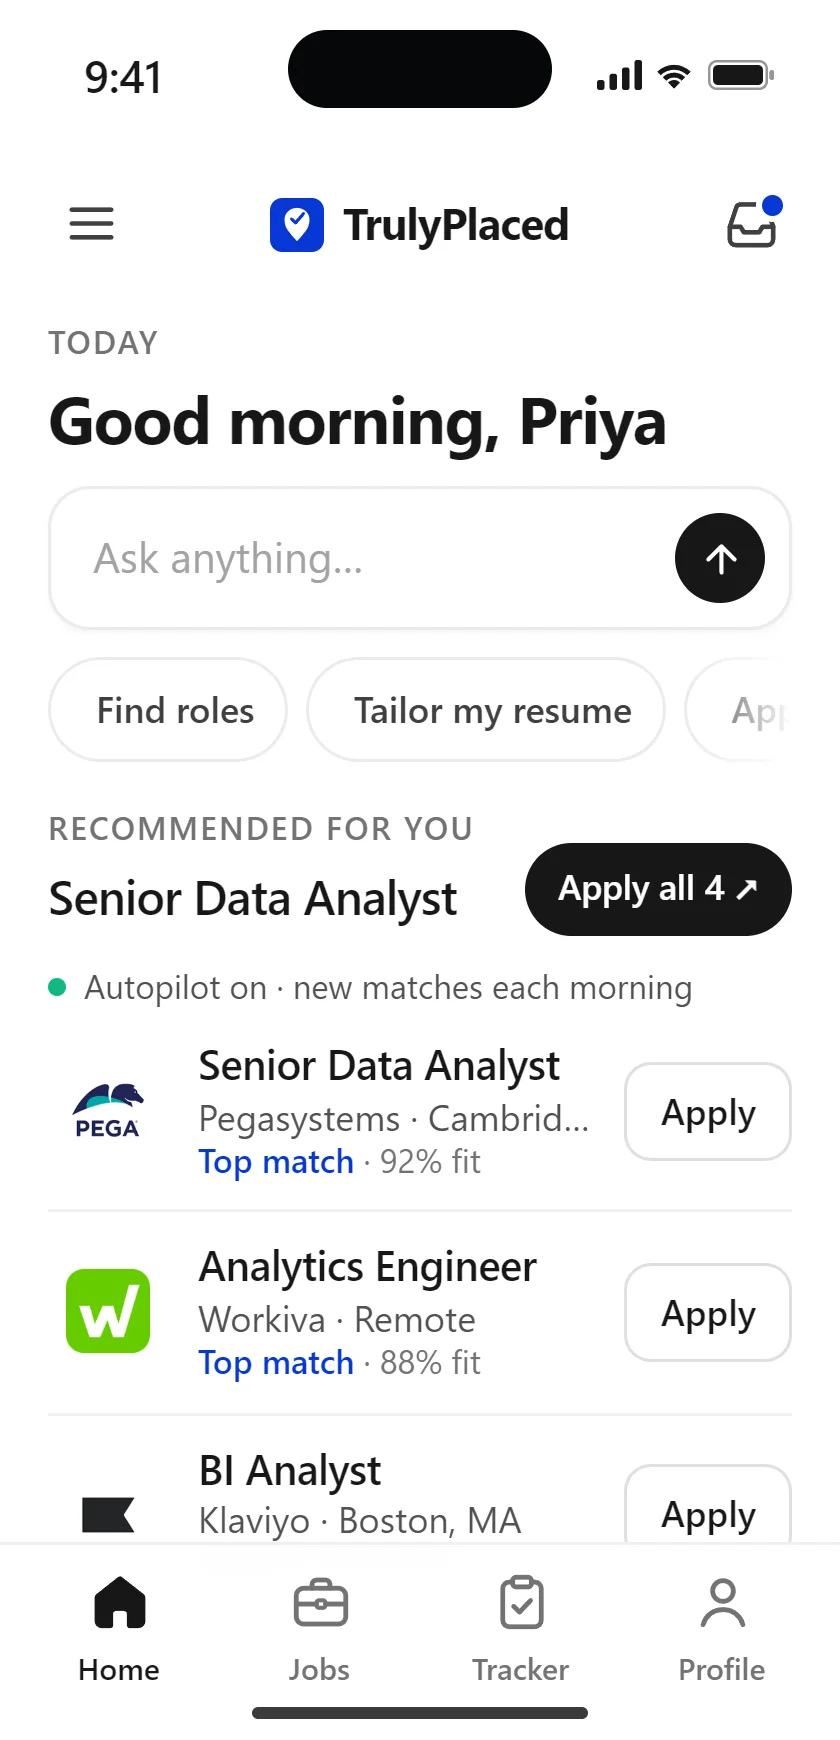
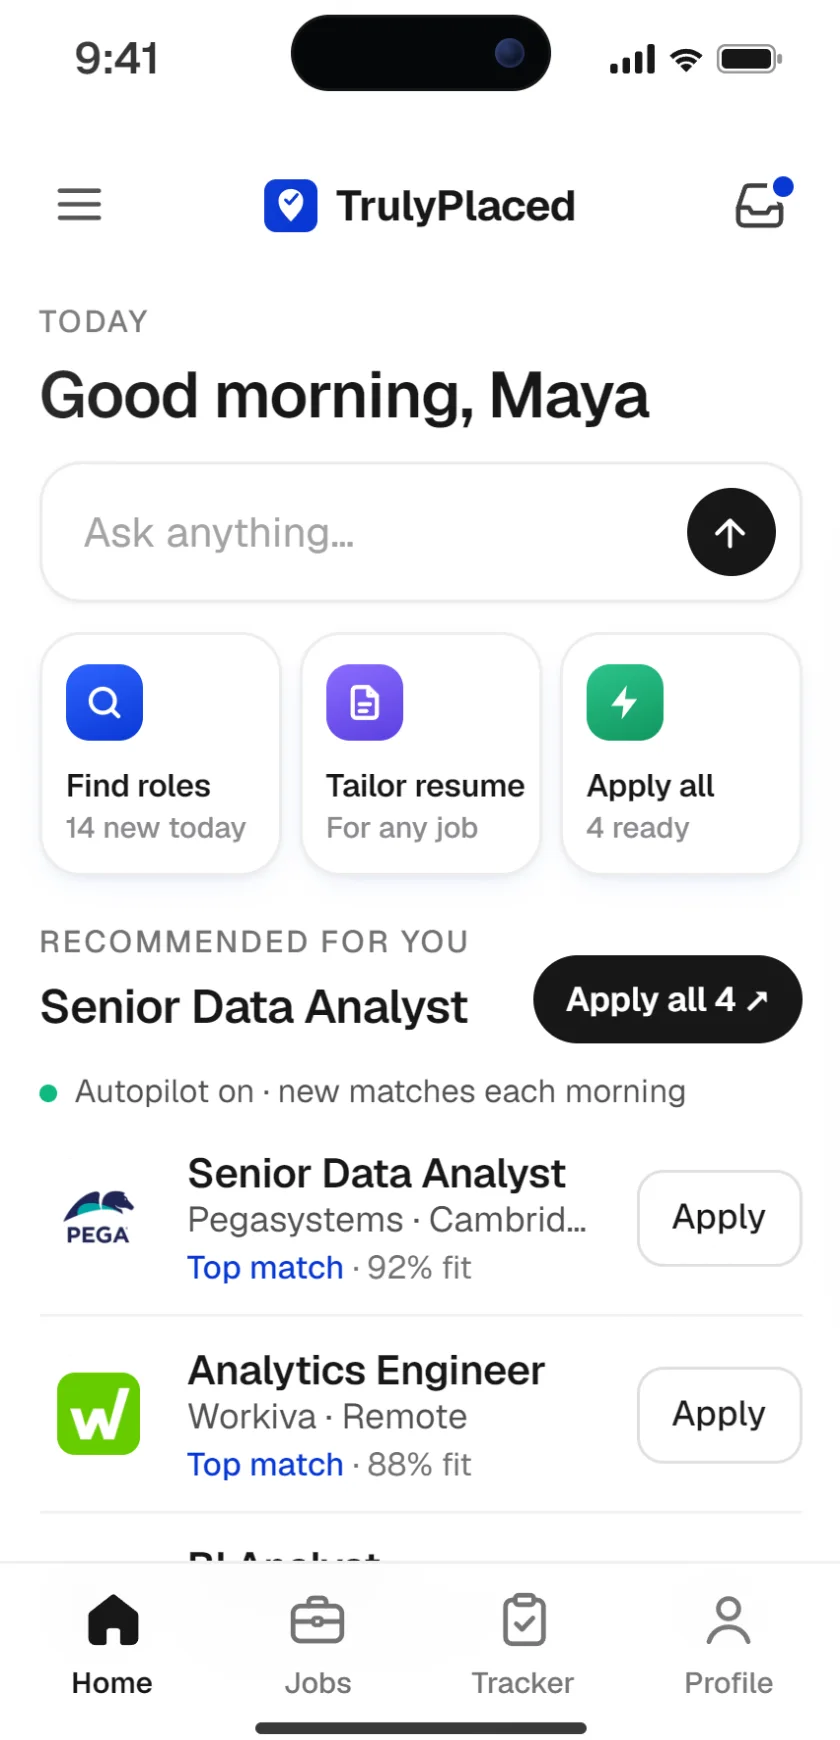
Add files via upload

diff --git a/index.html b/index.html
@@ -110,6 +110,7 @@ body{margin:0}
 img{max-width:100%}
 [hidden]{display:none!important}
 </style>
+<link rel="preload" as="image" href="img/hero-sky-phone.webp" media="(max-width: 640px)" fetchpriority="high">
 <title>TrulyPlaced (Truly Placed) | Done-for-you job applications</title>
 <link rel="preconnect" href="https://fonts.googleapis.com">
 <link rel="preconnect" href="https://fonts.gstatic.com" crossorigin>
@@ -2047,20 +2048,18 @@ html[data-theme="dark"] .spx .sp-demo{background:rgba(15,20,38,.86)!important;bo
   .hph img{display:block;width:100%;height:auto;aspect-ratio:280/580;border-radius:40px;background:#fff}
 }
 
-/* phone hero, light mode: a white background with the soft prism (as on desktop), dark type */
+
+/* phone hero: the sky (still image, 26KB) behind white type; dimmed for dark mode; soft fade into the page */
 @media(max-width:640px){
-  html:not([data-theme="dark"]) .cx.still .cx-sky{background:radial-gradient(110% 55% at 100% 4%,rgba(140,194,255,.45),rgba(140,194,255,0) 62%),radial-gradient(80% 45% at 0% 36%,rgba(214,232,255,.7),rgba(214,232,255,0) 70%),#fff!important}
-  html:not([data-theme="dark"]) .cx.still .cx-grain{display:none!important}
-  html:not([data-theme="dark"]) .cx .cx-word,html:not([data-theme="dark"]) .cx .cx-word *{color:#0A0A0B!important;-webkit-text-fill-color:#0A0A0B!important}
-  html:not([data-theme="dark"]) .cx .cx-h1,html:not([data-theme="dark"]) .cx .cx-h1 *{color:#0A0A0B!important}
-  html:not([data-theme="dark"]) .cx-cta .cx-btn.s{background:#0A0A0B!important;color:#fff!important;box-shadow:0 10px 24px -14px rgba(10,10,11,.55)!important}
-  html:not([data-theme="dark"]) .cx-cta .cx-btn.p{color:#0A0A0B!important}
-  html:not([data-theme="dark"]) .cx-pl{border-top-color:rgba(10,10,11,.08)!important}
-  html:not([data-theme="dark"]) .cx-pl p{color:#6E6E73!important}
-  html:not([data-theme="dark"]) .cx-pl li{background:rgba(255,255,255,.75)!important;border-color:rgba(10,10,11,.1)!important;color:#1D1D1F!important}
-  html:not([data-theme="dark"]) .cx-proof i{color:#1D1D1F!important}
-  html:not([data-theme="dark"]) .cx-proof small{color:#6E6E73!important}
-  html:not([data-theme="dark"]) .cx-proof img{box-shadow:0 0 0 1px rgba(10,10,11,.1)!important}
+  .cx.still .cx-sky{background:#2E95F0 url("img/hero-sky-phone.webp") 62% 0/cover no-repeat!important;
+    -webkit-mask-image:linear-gradient(180deg,#000 78%,transparent);mask-image:linear-gradient(180deg,#000 78%,transparent)}
+  .cx.still .cx-grain{display:none!important}
+  html[data-theme="dark"] .cx.still .cx-sky{background:#030a26 url("img/hero-sky-phone-night.webp") 62% 0/cover no-repeat!important;filter:none}
+}
+
+@media(max-width:640px){
+  .cx .cx-word,.cx .cx-h1,.cx-cta .cx-btn.p,.cx-pl p,.cx-proof span{text-shadow:0 1px 14px rgba(0,58,140,.38),0 0 2px rgba(0,58,140,.18)}
+  .cx .cx-word{filter:drop-shadow(0 2px 14px rgba(0,58,140,.3))!important}
 }
 </style>
 <style id="tpDark">
@@ -2388,7 +2387,7 @@ html[data-theme="dark"] body #tpBar .mobnav{border-top-color:rgba(255,255,255,.0
       <p class="cx-ats-l"><svg viewBox="0 0 24 24" fill="none" stroke="currentColor" stroke-width="2.4" stroke-linecap="round" stroke-linejoin="round" aria-hidden="true"><path d="M5 12.5l4.5 4.5L19 7.5"/></svg><span>We apply on the platforms employers already use</span><span class="sr-only">, including Greenhouse, Workday, Ashby, Workable, Rippling, BambooHR, Breezy, Gem, JazzHR, Dover, Jobvite</span></p>
       <div class="cx-ats-s"><div class="cx-ats-m" aria-hidden="true"><div class="cx-ats-t"><span class="cx-ats-i"><img src="img/ats/greenhouse.png" alt="" width="20" height="20" loading="lazy">Greenhouse</span><span class="cx-ats-i"><img src="img/ats/workday.png" alt="" width="20" height="20" loading="lazy">Workday</span><span class="cx-ats-i"><img src="img/ats/ashby.png" alt="" width="20" height="20" loading="lazy">Ashby</span><span class="cx-ats-i"><img src="img/ats/workable.png" alt="" width="20" height="20" loading="lazy">Workable</span><span class="cx-ats-i"><img src="img/ats/rippling.png" alt="" width="20" height="20" loading="lazy">Rippling</span><span class="cx-ats-i"><img src="img/ats/bamboohr.png" alt="" width="20" height="20" loading="lazy">BambooHR</span><span class="cx-ats-i"><img src="img/ats/breezy.png" alt="" width="20" height="20" loading="lazy">Breezy</span><span class="cx-ats-i"><img src="img/ats/gem.png" alt="" width="20" height="20" loading="lazy">Gem</span><span class="cx-ats-i"><img src="img/ats/jazzhr.jpg" alt="" width="20" height="20" loading="lazy">JazzHR</span><span class="cx-ats-i"><img src="img/ats/dover.png" alt="" width="20" height="20" loading="lazy">Dover</span><span class="cx-ats-i"><img src="img/ats/jobvite.png" alt="" width="20" height="20" loading="lazy">Jobvite</span><span class="cx-ats-i"><img src="img/ats/greenhouse.png" alt="" width="20" height="20" loading="lazy">Greenhouse</span><span class="cx-ats-i"><img src="img/ats/workday.png" alt="" width="20" height="20" loading="lazy">Workday</span><span class="cx-ats-i"><img src="img/ats/ashby.png" alt="" width="20" height="20" loading="lazy">Ashby</span><span class="cx-ats-i"><img src="img/ats/workable.png" alt="" width="20" height="20" loading="lazy">Workable</span><span class="cx-ats-i"><img src="img/ats/rippling.png" alt="" width="20" height="20" loading="lazy">Rippling</span><span class="cx-ats-i"><img src="img/ats/bamboohr.png" alt="" width="20" height="20" loading="lazy">BambooHR</span><span class="cx-ats-i"><img src="img/ats/breezy.png" alt="" width="20" height="20" loading="lazy">Breezy</span><span class="cx-ats-i"><img src="img/ats/gem.png" alt="" width="20" height="20" loading="lazy">Gem</span><span class="cx-ats-i"><img src="img/ats/jazzhr.jpg" alt="" width="20" height="20" loading="lazy">JazzHR</span><span class="cx-ats-i"><img src="img/ats/dover.png" alt="" width="20" height="20" loading="lazy">Dover</span><span class="cx-ats-i"><img src="img/ats/jobvite.png" alt="" width="20" height="20" loading="lazy">Jobvite</span></div></div></div>
     </div>
-    <div class="xph"><div class="hph"><img src="img/hero-phone.webp" width="280" height="580" alt="The TrulyPlaced app on a phone: Home, with your best matches each morning and one tap to apply" fetchpriority="high" decoding="async"></div></div>
+    <div class="xph"><div class="hph"><img src="img/hero-phone.webp?v=2" width="280" height="580" alt="The TrulyPlaced app on a phone: Home, with your best matches each morning and one tap to apply" fetchpriority="high" decoding="async"></div></div>
     <div class="cx-shot ta" data-ui role="img" aria-label="The TrulyPlaced app: the Tracker with an application open in the side panel, showing its tailored resume, cover letter and progress">
       <div class="cx-bar"><span class="cx-dot3"><i></i><i></i><i></i></span><span class="cx-url">app.trulyplaced.com/app/applications</span></div>
       <div class="ta-app">
